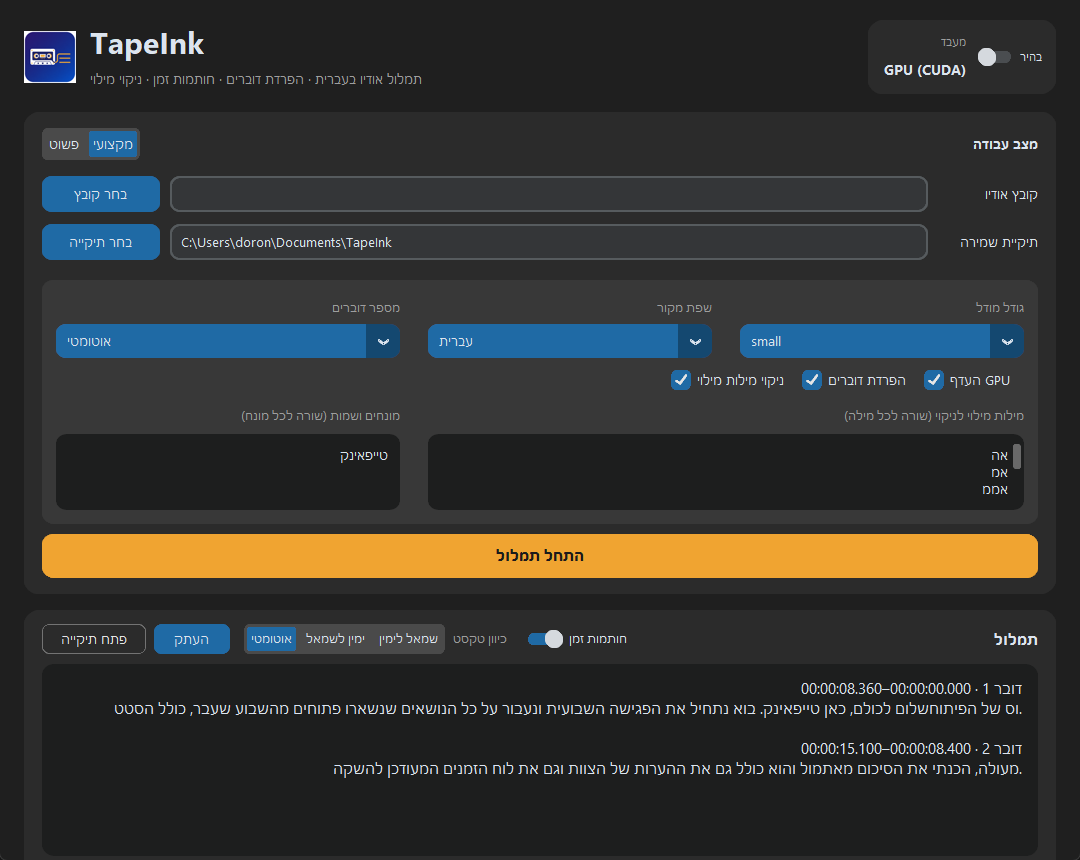
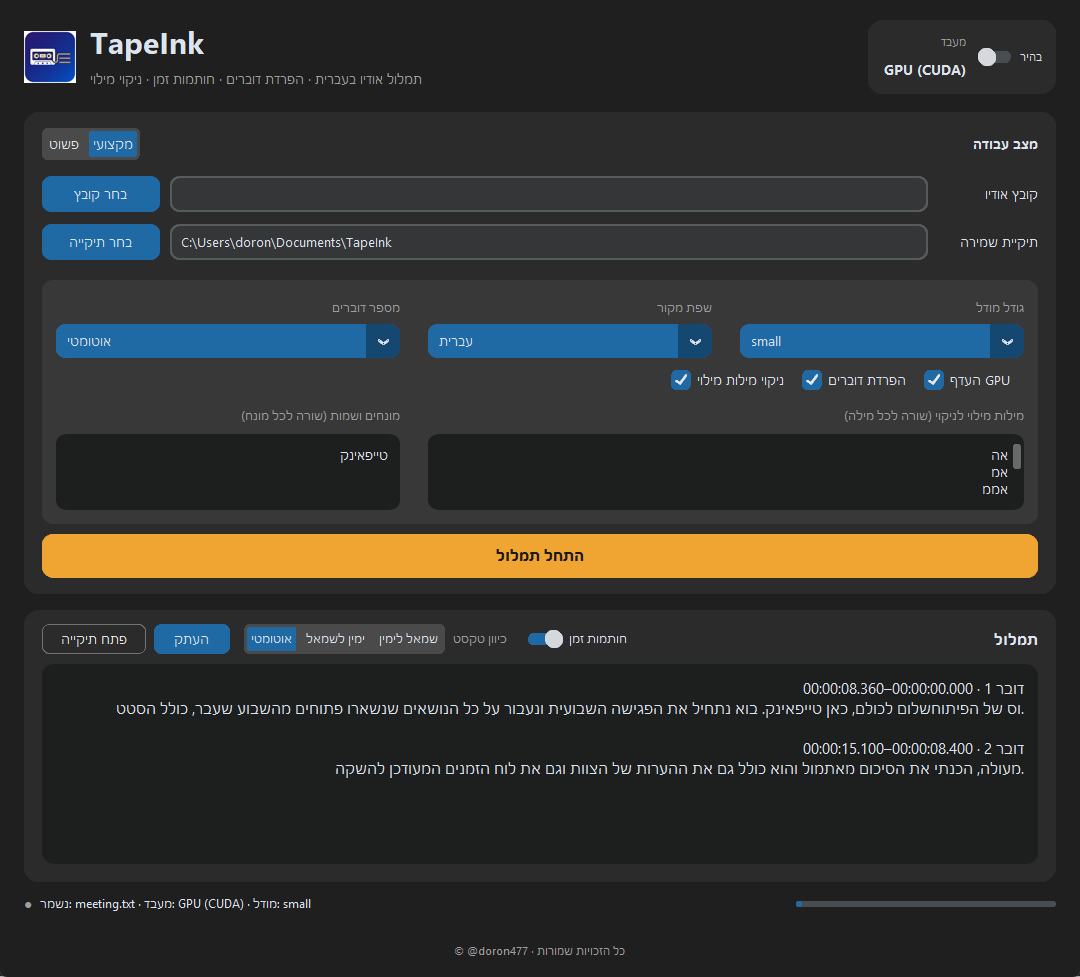
Add author credit line and keep it on screen in pro mode
The status bar was already being pushed out of the window in pro mode, and the new credit line made the overflow visible. The window now grows to fit when the pro panel opens, and the transcript box can give up some height on shorter displays.

The credit string is written handle-first because Tk orders runs left to right, so that is what puts the Hebrew on the right where the line starts.

diff --git a/app.py b/app.py
@@ -21,6 +21,10 @@ from tapeink import textdir
 
 APP_TITLE = "TapeInk"
 APP_SUBTITLE = "תמלול אודיו בעברית · הפרדת דוברים · חותמות זמן · ניקוי מילוי"
+AUTHOR_HANDLE = "@doron477"
+# Written handle-first so Tk's left-to-right run order lands the Hebrew on the
+# right, where a Hebrew reader starts the line.
+CREDIT = f"© {AUTHOR_HANDLE} · כל הזכויות שמורות"
 DEFAULT_OUTPUT = Path.home() / "Documents" / "TapeInk"
 ASSETS_DIR = Path(__file__).resolve().parent / "assets"
 ICON_PATH = ASSETS_DIR / "tapeink.ico"
@@ -63,8 +67,8 @@ class TapeInkApp(ctk.CTk):
         self._apply_hebrew_font()
 
         self.title(APP_TITLE)
-        self.geometry("1080x860")
-        self.minsize(960, 760)
+        self.geometry("1080x940")
+        self.minsize(940, 640)
         self.configure(fg_color=("gray96", "gray12"))
         self._apply_icon()
 
@@ -135,12 +139,15 @@ class TapeInkApp(ctk.CTk):
 
     def _build(self) -> None:
         self.grid_columnconfigure(0, weight=1)
-        self.grid_rowconfigure(2, weight=1, minsize=280)
+        # Keep the transcript able to shrink, so the status bar and the credit
+        # line stay on screen in pro mode on shorter displays.
+        self.grid_rowconfigure(2, weight=1, minsize=180)
 
         self._build_header()
         self._build_controls()
         self._build_results()
         self._build_statusbar()
+        self._build_footer()
         self._on_mode_change("פשוט")
 
     def _build_header(self) -> None:
@@ -382,7 +389,7 @@ class TapeInkApp(ctk.CTk):
             card,
             wrap="word",
             corner_radius=12,
-            height=240,
+            height=200,
             font=ctk.CTkFont(size=15),
         )
         self.output_box.grid(row=1, column=0, sticky="nsew", padx=18, pady=(4, 18))
@@ -390,7 +397,7 @@ class TapeInkApp(ctk.CTk):
 
     def _build_statusbar(self) -> None:
         bar = ctk.CTkFrame(self, fg_color="transparent")
-        bar.grid(row=3, column=0, sticky="ew", padx=24, pady=(0, 18))
+        bar.grid(row=3, column=0, sticky="ew", padx=24, pady=(0, 10))
         bar.grid_columnconfigure(1, weight=1)
 
         self.status_dot = ctk.CTkLabel(bar, text="●", text_color=MUTED, font=ctk.CTkFont(size=14))
@@ -402,6 +409,18 @@ class TapeInkApp(ctk.CTk):
         self.progress.grid(row=0, column=2, sticky="e")
         self.progress.set(0)
 
+    def _build_footer(self) -> None:
+        footer = ctk.CTkFrame(self, fg_color="transparent")
+        footer.grid(row=4, column=0, sticky="ew", padx=24, pady=(0, 12))
+        footer.grid_columnconfigure(0, weight=1)
+
+        ctk.CTkFrame(footer, height=1, fg_color=CARD_INNER).grid(
+            row=0, column=0, sticky="ew", pady=(0, 8)
+        )
+        ctk.CTkLabel(
+            footer, text=CREDIT, font=ctk.CTkFont(size=11), text_color=MUTED
+        ).grid(row=1, column=0)
+
     # ---------- interactions ----------
 
     def _toggle_theme(self) -> None:
@@ -412,9 +431,26 @@ class TapeInkApp(ctk.CTk):
         if value == "מקצועי":
             self.mode.set("pro")
             self.pro_card.grid(row=2, column=0, sticky="ew", padx=18, pady=(8, 4))
+            self._grow_to_fit()
         else:
             self.mode.set("simple")
             self.pro_card.grid_forget()
+
+    def _grow_to_fit(self) -> None:
+        """Give the pro panel room, so the status bar and credit stay on screen.
+
+        Only the height is touched, and it is read from the requested geometry
+        rather than winfo_width/height, which still report stale values when the
+        mode is switched before the window manager has applied a resize.
+        """
+        self.update_idletasks()
+        wanted = min(self.winfo_reqheight(), self.winfo_screenheight() - 80)
+
+        size, _, position = self.wm_geometry().partition("+")
+        width, _, height = size.partition("x")
+        if height.isdigit() and int(height) >= wanted:
+            return
+        self.geometry(f"{width}x{wanted}" + (f"+{position}" if position else ""))
 
     def _on_display_change(self, _value: str | None = None) -> None:
         """Re-render the transcript after a direction or timestamp change."""

diff --git a/README.md b/README.md
@@ -243,4 +243,8 @@ Python נדרש כדי **להריץ מהקוד**. בהמשך אפשר לארוז
 [librosa](https://librosa.org/), [scikit-learn](https://scikit-learn.org/)
 ו־[ffmpeg](https://ffmpeg.org/).
 
+---
+
+© [@doron477](https://github.com/doron477) · כל הזכויות שמורות
+
 </div>
